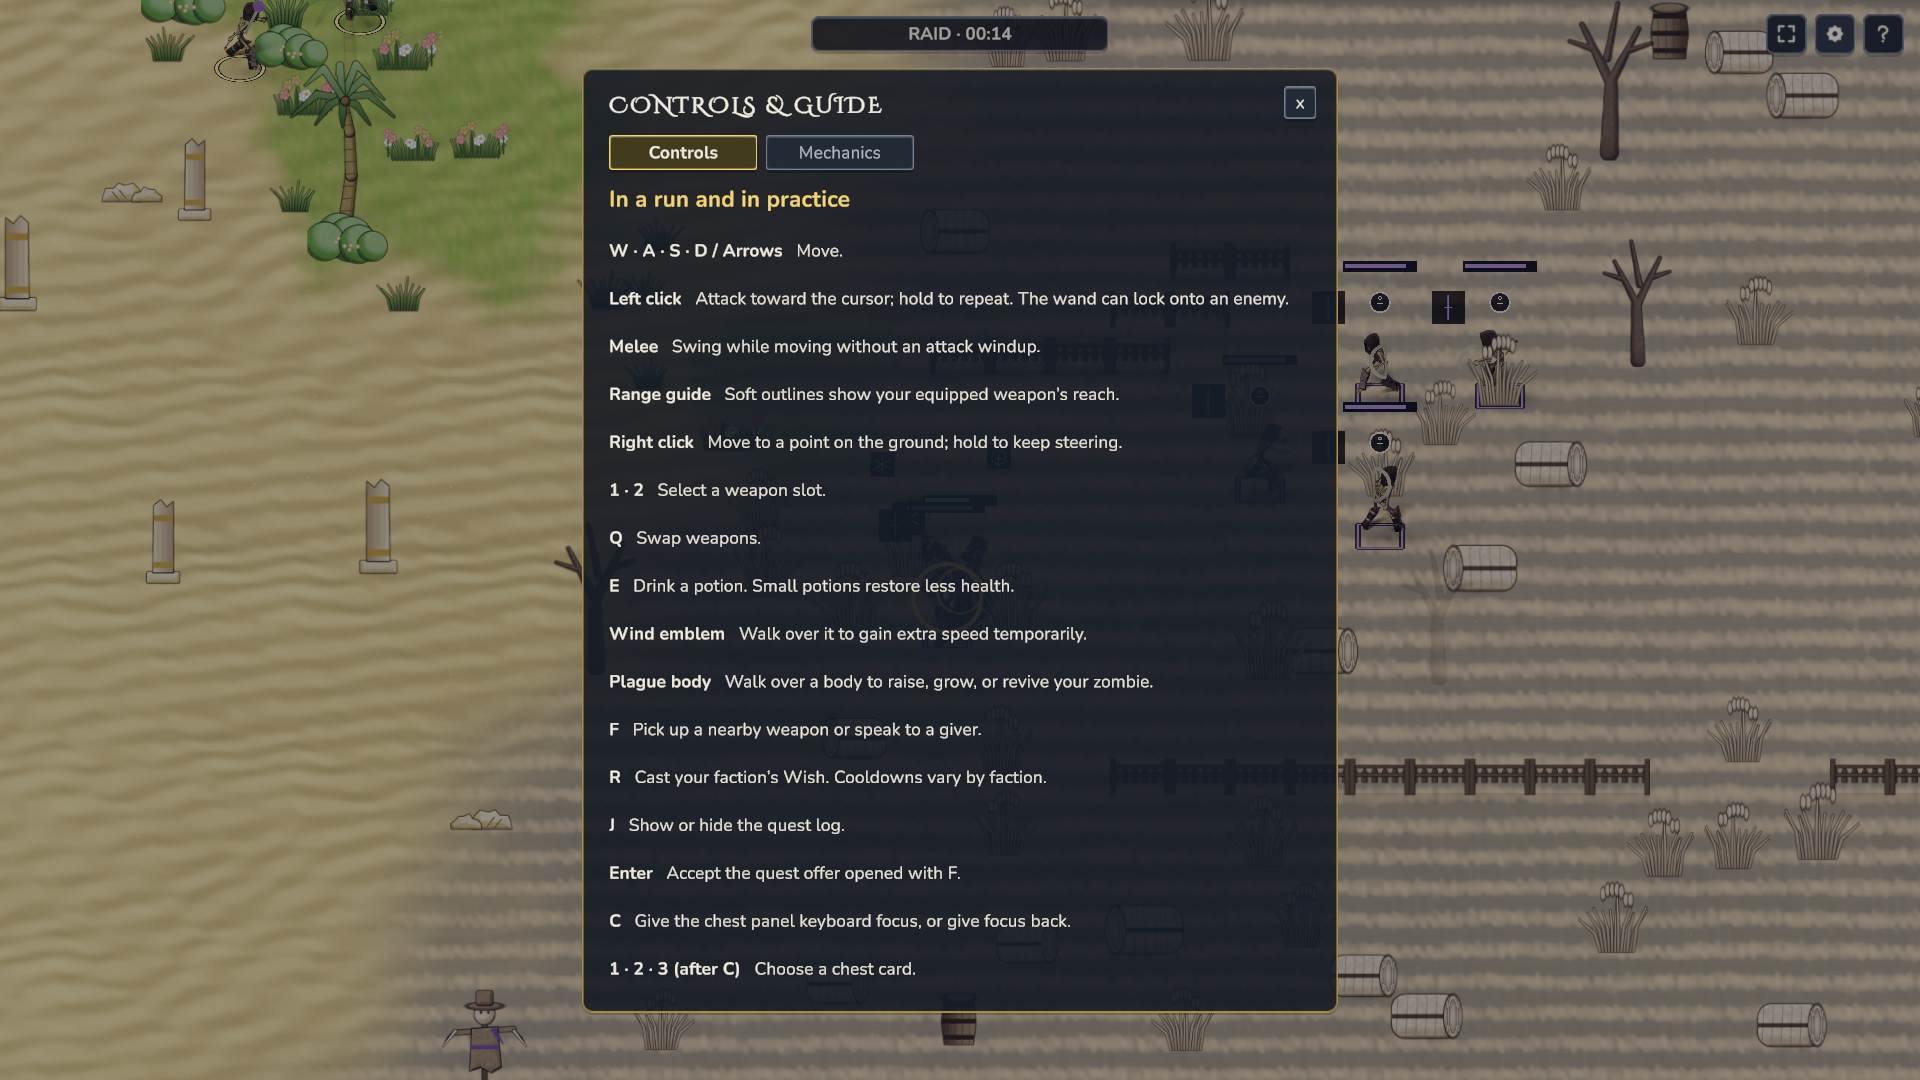
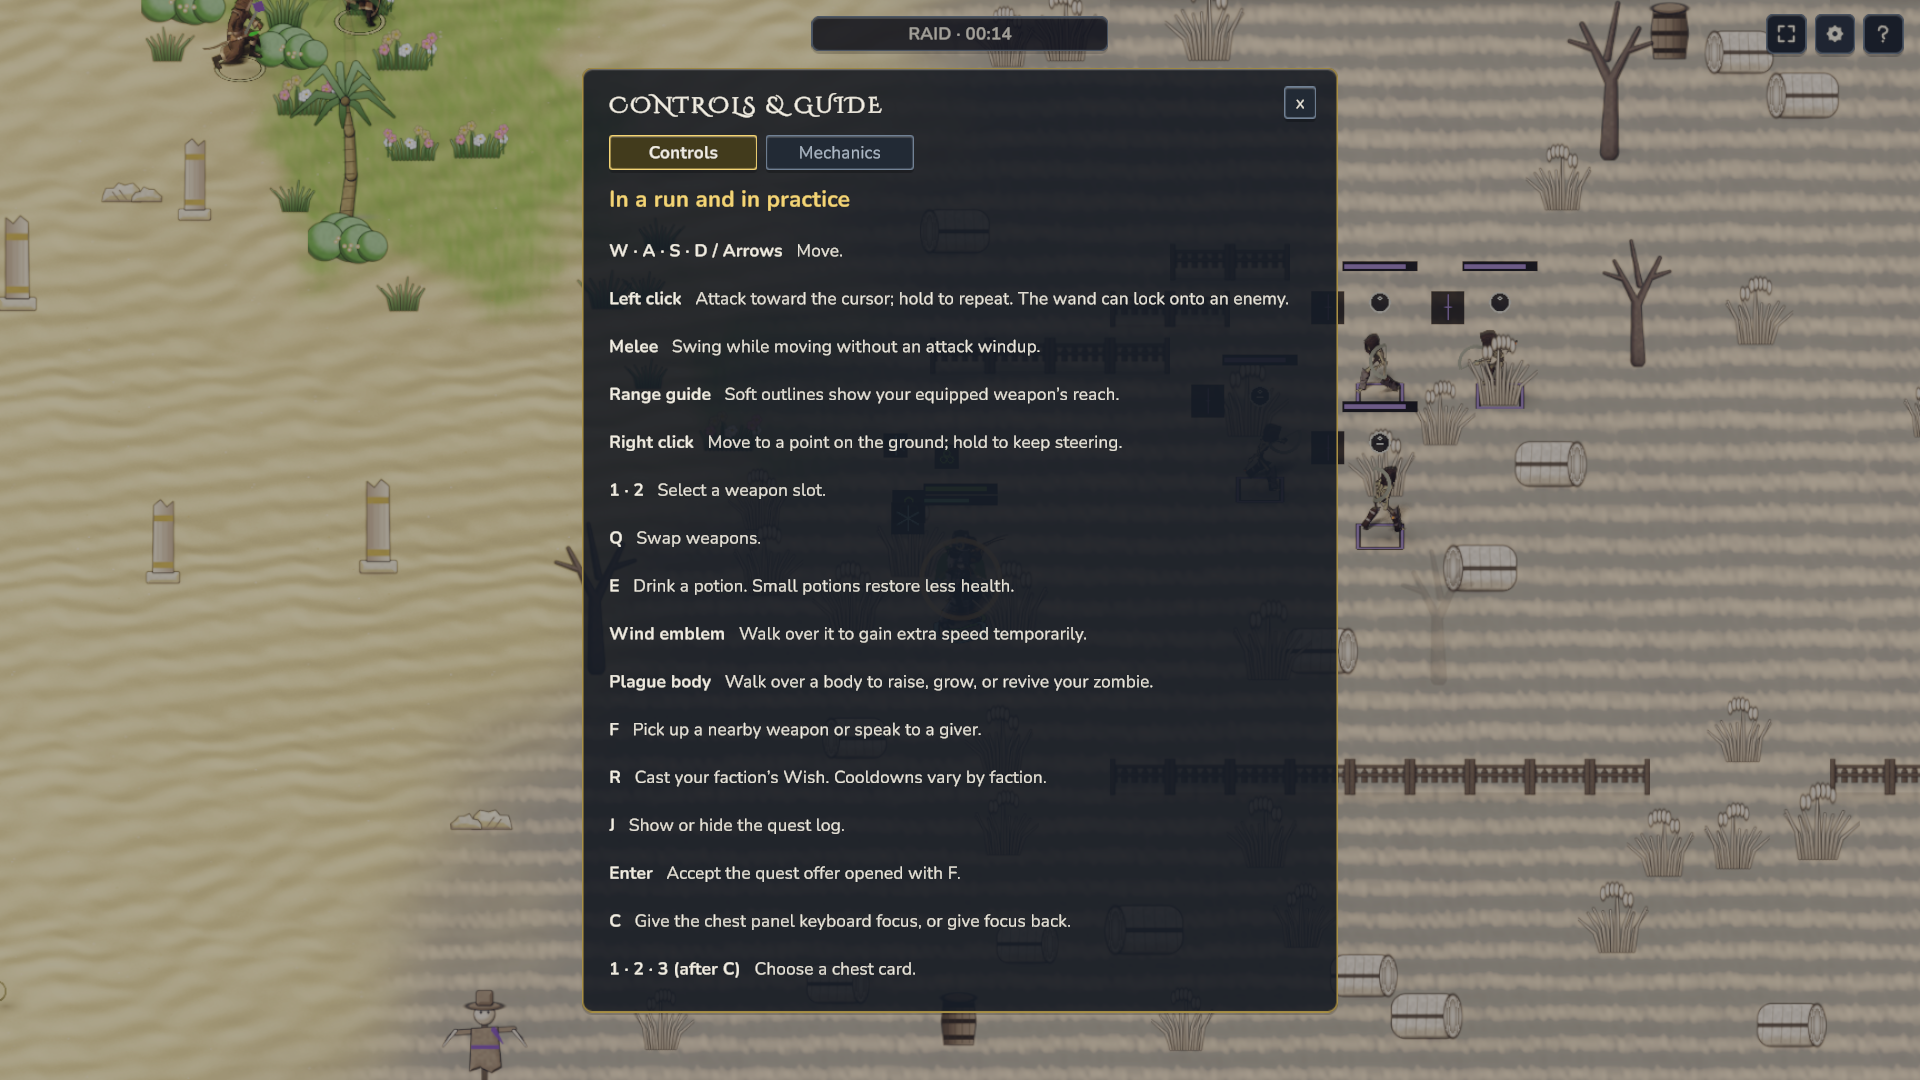
feat(map): pinned wheel text sizes, darker Tab scrim, map evidence at 4 sizes with walk probe

diff --git a/client-unity/UnityProject/Assets/Scripts/UI/TacticalMapController.cs b/client-unity/UnityProject/Assets/Scripts/UI/TacticalMapController.cs
@@ -160,10 +160,10 @@ namespace Roguehalla.Client
             foreach (var node in _counterGuide.WheelRoot.GetComponentsInChildren<UnityEngine.UI.Button>(true))
             {
                 ((RectTransform)node.transform).sizeDelta = new Vector2(68f, 26f);
-                foreach (var t in node.GetComponentsInChildren<TMP_Text>(true)) { t.enableAutoSizing = false; t.fontSize = 11f; }
+                foreach (var t in node.GetComponentsInChildren<TMP_Text>(true)) FixSize(t, 11f);
             }
             var legendText = _counterGuide.LegendRoot.GetComponentInChildren<TMP_Text>();
-            legendText.text = "Arrows point to the weapon each one counters. + advantage, ! threat."; legendText.enableAutoSizing = false; legendText.fontSize = 10f;
+            legendText.text = "Arrows point to the weapon each one counters. + advantage, ! threat."; FixSize(legendText, 10f);
             _questHeading = HudUi.Label(_counterRail, "QuestHeading", "QUESTS & TRADERS", 13f, theme.Accent, TextAlignmentOptions.TopLeft, false, UiFontRole.Display);
             _questsText = MythicUi.ScrollText(_counterRail, "QuestList", "", Vector2.zero, Vector2.one, 7.7f);
             _questScroll = (RectTransform)_questsText.transform.parent.parent;
@@ -211,6 +211,14 @@ namespace Roguehalla.Client
             var r8 = row("Walk target (right-click)"); GlyphImage(r8, "Icon", MapGlyph.Ring, theme.Success, 12f, 14f, 3f);
         }
 
+        /// <summary>Pins a Mythic text to an exact HUD size (its MythicTextScale would otherwise re-apply a larger base).</summary>
+        static void FixSize(TMP_Text t, float size)
+        {
+            t.enableAutoSizing = false; t.fontSize = size;
+            var scale = t.GetComponent<MythicTextScale>();
+            if (scale != null) { scale.BaseSize = size; scale.Apply(1f); }
+        }
+
         float TextScale() { var s = ShowcaseSettings.Current; return s != null ? Mathf.Clamp(s.TextScale, 1f, 1.5f) : 1f; }
 
         /// <summary>Gives the panel the stage's size and scale, so its children use legacy HUD units.</summary>
@@ -233,7 +241,7 @@ namespace Roguehalla.Client
             var L = _layout = MapScreenLayout.Compute(size.x, size.y, mode, ts);
             bool tab = mode == MapScreenMode.Tab;
             var theme = UiTheme.Current;
-            _scrim.color = UiTheme.With(theme.OutlineDark, tab ? .5f : .84f);
+            _scrim.color = UiTheme.With(theme.OutlineDark, tab ? .72f : .84f);
             Put(_titleRect, L.Title); Put(_frameRect, L.Frame);
             _close.gameObject.SetActive(tab); _timer.gameObject.SetActive(!tab); _planBar.gameObject.SetActive(!tab);
             _planBar.sizeDelta = new Vector2(L.Title.W, 3f);
@@ -413,7 +421,7 @@ namespace Roguehalla.Client
                 _routePlan = _route.PlanAhead(_bound.Map, new RouteGeometry(Tile, Pathfinder.PlayerRadius, PreviewSpeed), plan == null && me != null ? new RoutePoint(me.X, me.Y) : _route.Start);
                 _routePoints = _routePlan.Points;
                 _routeText.text = (_route.Waypoints.Count - _route.NextIndex) + "/12 stops · " + (_routePlan.Start.HasValue ? _routePlan.EtaSeconds.ToString("0") + "s base-speed walk" : "choose a spawn for ETA") +
-                    (_routePlan.Unreachable.Count > 0 ? " · " + _routePlan.Unreachable.Count + " unreachable" : "") + "\nClick map to add; click an upcoming stop to remove.";
+                    (_routePlan.Unreachable.Count > 0 ? " · " + _routePlan.Unreachable.Count + " unreachable" : "") + "\nClick the map to add a stop.";
             }
             SaveRoute();
             _large.Present(_bound, ShowRoute ? _routePoints : null); _mini.Present(_bound, ShowRoute ? _routePoints : null);

diff --git a/docs/rework/evidence/hud/README.md b/docs/rework/evidence/hud/README.md
@@ -10,3 +10,8 @@ Reproduce: build the server (`cargo build --release -p rh-server`) and run it wi
 serve `Build/Web` on 8117 (the page host must be a literal loopback IP such as 127.0.0.1, not `localhost`, or the diagnostic join is refused); run the script.
 
 Not captured: the death line, chest panel, toasts and banners (no way to force them from the browser); they are covered by layout tests only.
+
+## Map pass (`map-*.png`, `map-*-walk.json`)
+
+Same script with `--prefix map` (server on 7837, player on 8137). New: Tab map (zone-tinted, legend, key, weapon guide, quests), planning screen on the shared map view, and the `walk` step: it right-clicks the minimap and then the Tab map, reads the player marker back from the minimap before and after (the `walk-*.json` files hold the world positions), and counts `contextmenu` events that were not default-prevented (0). The in-page move-order trace (`__rhLatency`) recorded no events in this build, so movement is proven by the marker moving toward the target, not by order logging.
+Weak: zone borders show the 1-tile staircase of the region plane; the weapon-guide node labels still show a missing-glyph `[]` prefix (existing code).
